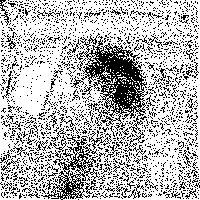
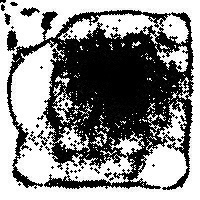
finito

diff --git a/main.py b/main.py
@@ -6,17 +6,12 @@ import PDF as pd
 import util as u 
 import stip as st
 import cv2 as cv2
+import os
 
-inPath = 'data/images/figura.png'
-nPoints = 2000
-threshold = 255
 resolution = 1
-iterations = 5
-rMin = 0.5
-rMax = 1.5
 
-
-def main():
+def main(inPath,nPoints, iterations, rMin, rMax, loopStep):
+    threshold = 255
     img = cv2.imread(inPath)
     img = np.ones((img.shape[0], img.shape[1], img.shape[2]), dtype=np.uint8)
     img = img * 255
@@ -26,37 +21,53 @@ def main():
     gray = gr.gray(inPath)
     print('Converted!')
     print('Next step: sampling creation...')
-    for x in range(1, threshold, 10):
+    for x in range(1, threshold, loopStep):
         print("Threshold:", x)
         points = sp.sampling(nPoints, gray, x, np.random.default_rng(seed=int(time.time())))
-        print('Sampling created!')
-        print('Next step: PDF creation...')
+        #print('Sampling created!')
+        #print('Next step: PDF creation...')
         pdf = pd.makePDF('data/gray_images/gray_' + inPath.split('/')[2])
-        print('PDF created successfully!')
+        #print('PDF created successfully!')
         step = 1/resolution
-        print('Next step: stippling...')
-        print('Stippling in progress... please be patient')
+        #print('Next step: stippling...')
+        #print('Stippling in progress... please be patient')
         stipples, densities = st.Centroids(points, pdf, gray.shape, step)
         for i in range(1, iterations):
             print('Iteration', i)
             stipples, densities = st.Centroids(stipples, pdf, gray.shape, step)
-        print('Stippling completed!')
-        print('Next step: normalize densities...')
-        print('Densities normalization in progress...')
+        #print('Stippling completed!')
+        #print('Next step: normalize densities...')
+        #print('Densities normalization in progress...')
         radiuses = u.rescaleFloat64s(densities, rMin, rMax)
-        print('Densities normalized!')
-        print('Next step: drawing stippled image...')
+        #print('Densities normalized!')
+        #print('Next step: drawing stippled image...')
         stipple = cv2.imread(stippled)
-        print('Drawing stippled image in progress...')
+        #print('Drawing stippled image in progress...')
         for j, s in enumerate(stipples):
             try:
                 stipple = cv2.circle(stipple, (np.uint64(s[1]), np.uint64(s[0])), int(radiuses[j]), (0, 0, 0), -1)
             except:
                 pass
         cv2.imwrite(stippled, stipple)
-        print('Stippled image drawn!')
+        #print('Stippled image drawn!')
     print('MAIN COMPLETED!')
 
 
 if __name__ == '__main__':
-    main()
+    print(f"Benvenuti su Stippling!\nUn programma che permette di creare immagini stippled a partire da immagini in input.\nOra si trova nella cartella {os.getcwd()}")
+    while True:
+        try:
+            bo = input("Si vogliono vedere i file a disposizione? [[Y]/n] ")
+            if bo.upper() == "Y" or bo.upper() == "":
+                print(os.listdir('data/images'))
+            inPath = "data/images/"+input("Inserire il percorso dell'immagine da stipplingare(inserire solo il nome del file): ")
+            nPoints = int(input("Inserire il numero di punti da utilizzare per la stippling: "))
+            iterations = int(input("Inserire il numero di iterazioni da utilizzare per la stippling: "))
+            rMin = float(input("Inserire il valore minimo del raggio da utilizzare per la stippling(pure float): "))
+            rMax = float(input("Inserire il valore massimo del raggio da utilizzare per la stippling(pure float): "))
+            loopStep = int(input("Inserire il valore di step da utilizzare per la stippling(più iterazioni si fanno ci vorrà più tempo, ma si avrà una bell'immagine, consigliata se si ha tanto, ma TANTO tempo a disposizione): "))
+            nPoints //= loopStep
+            main(inPath, nPoints, iterations, rMin, rMax, loopStep)
+        except:
+            print("Errore! file non trovato, Riprovare!")
+            continue

diff --git a/samp.py b/samp.py
@@ -4,7 +4,7 @@ from Point import Point
 def sampling(sample, gray, threshold, rng=np.random.default_rng()):
     pts = np.zeros([sample], dtype=(np.float64, 2))
     bounds = gray.shape
-    hist = {key : [] for key in range(0, threshold+1)}
+    hist = {key : [] for key in range(0, 256)}
     roulette = np.zeros(threshold+1)
     for x in range(0, bounds[0]):
         for y in range(0, bounds[1]):
